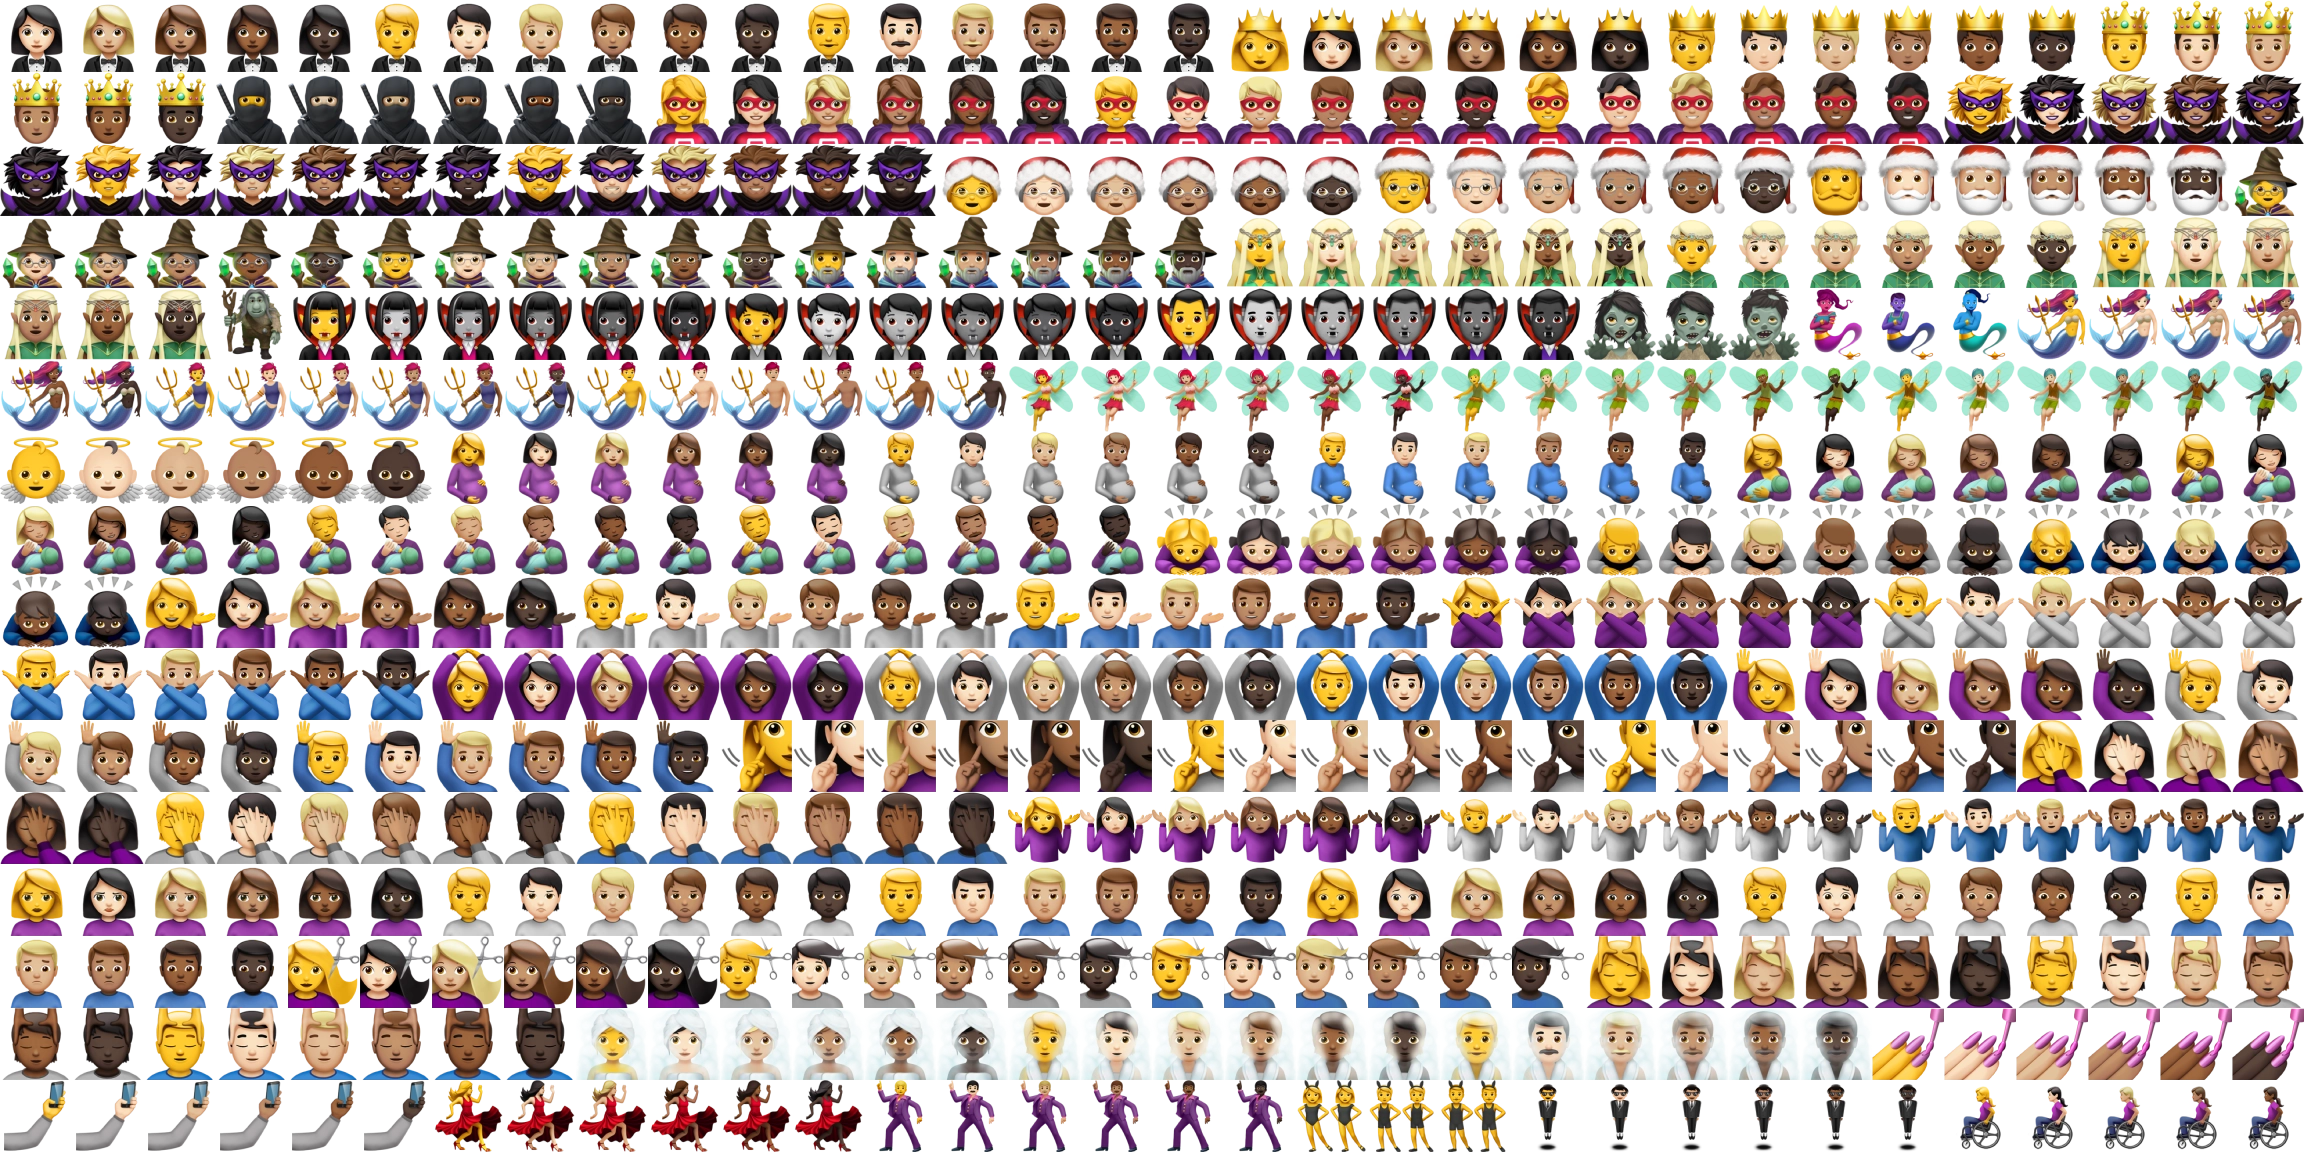
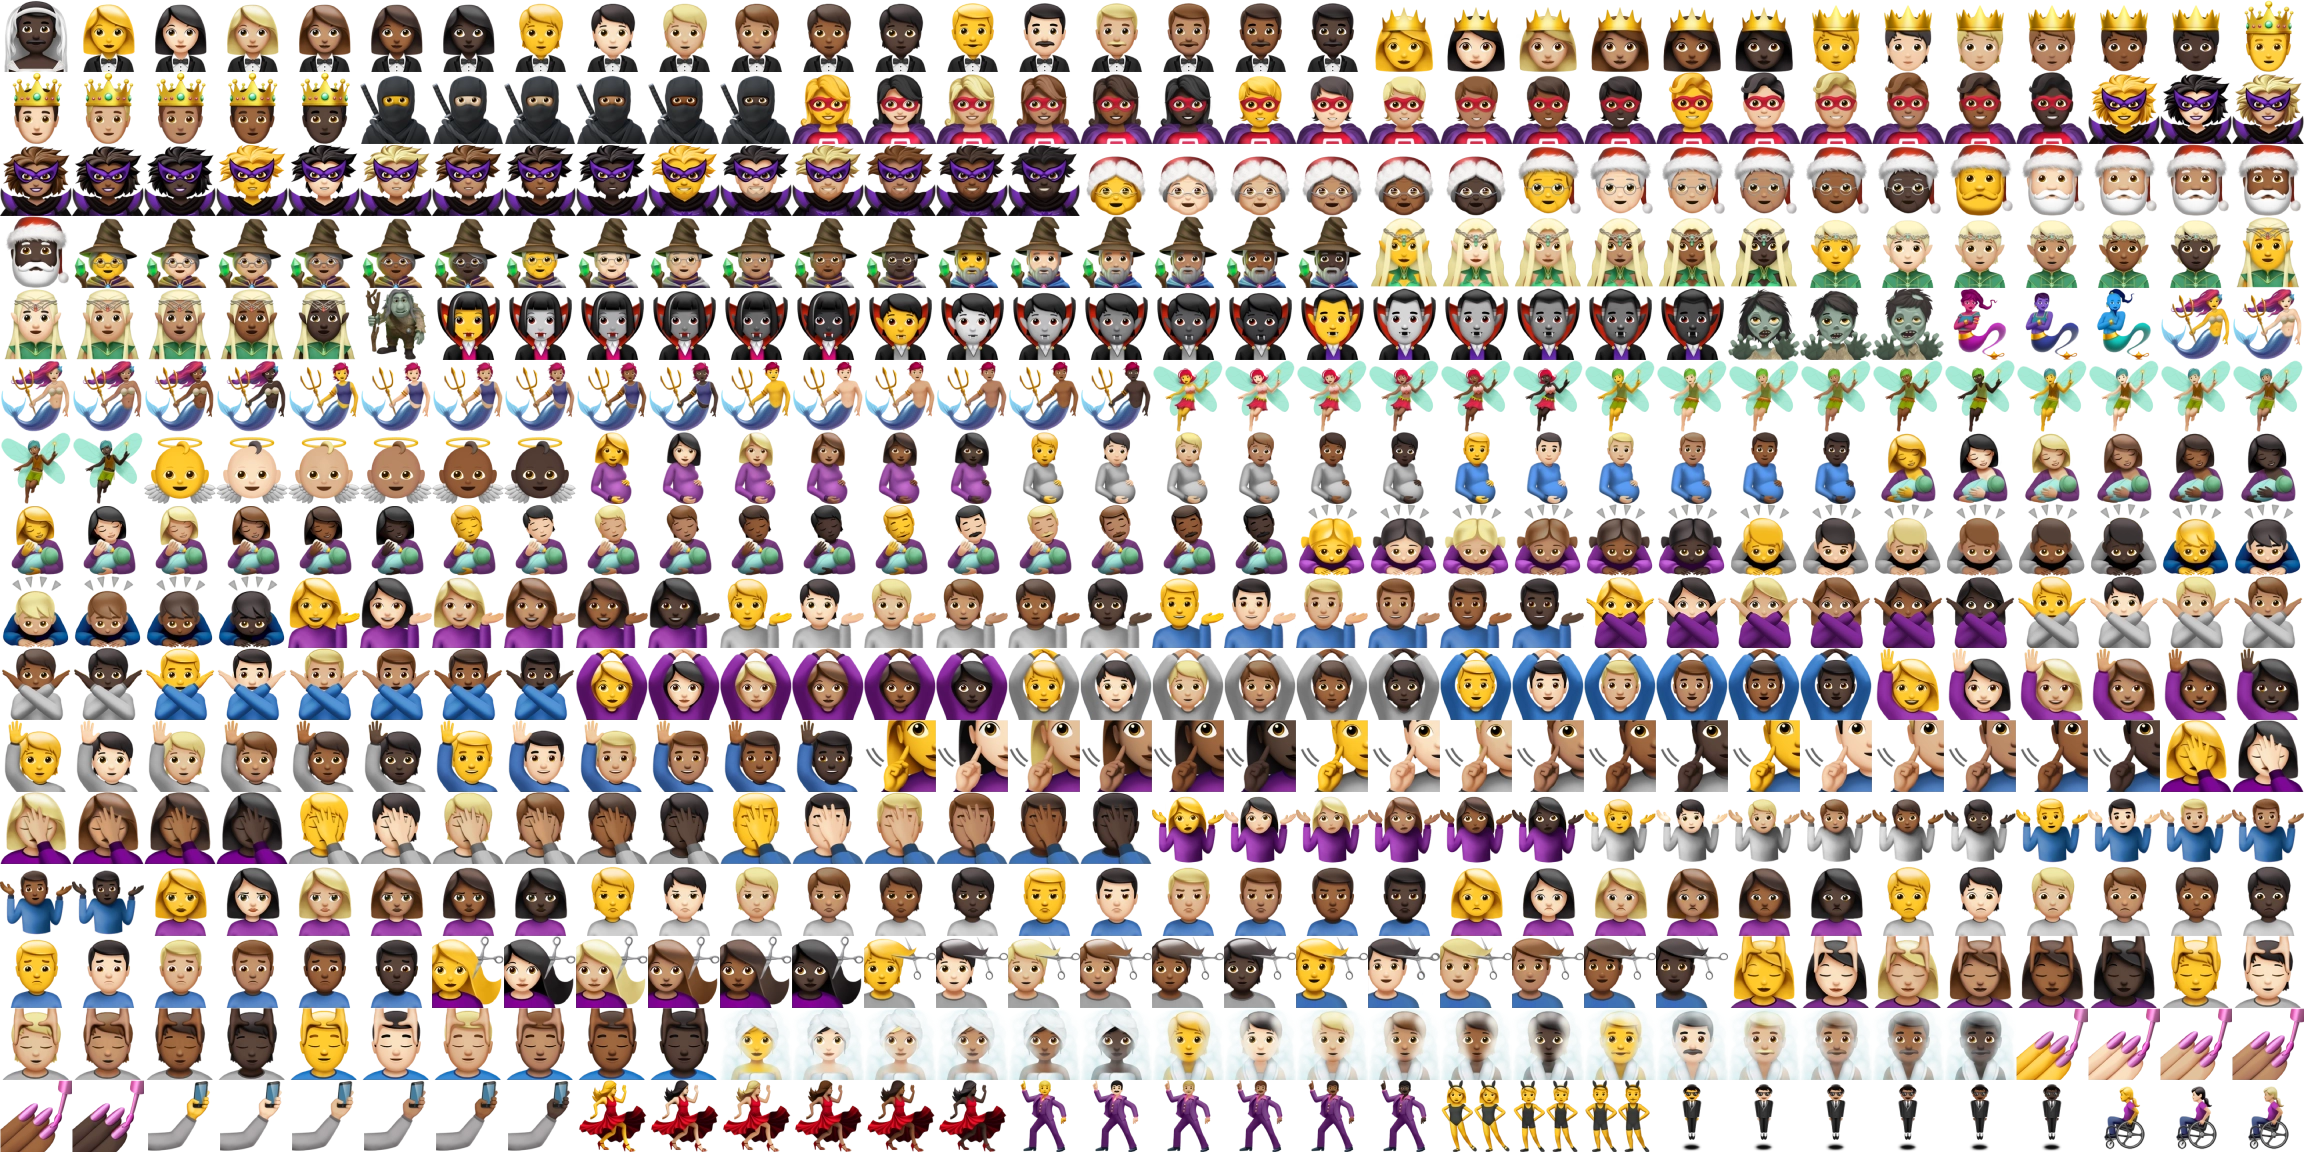
Update emoji to Unicode 16.

diff --git a/Telegram/SourceFiles/chat_helpers/emoji_sets_manager.cpp b/Telegram/SourceFiles/chat_helpers/emoji_sets_manager.cpp
@@ -41,9 +41,9 @@ inline auto PreviewPath(int i) {
 
 const auto kSets = {
 	Set{ { 0,    0,         0, "Mac" },       PreviewPath(0) },
-	Set{ { 1, 2290, 8'306'943, "Android" },   PreviewPath(1) },
-	Set{ { 2, 2291, 5'694'303, "Twemoji" },   PreviewPath(2) },
-	Set{ { 3, 2292, 7'261'223, "JoyPixels" }, PreviewPath(3) },
+	Set{ { 1, 2774, 8'455'034, "Android" },   PreviewPath(1) },
+	Set{ { 2, 2775, 5'713'503, "Twemoji" },   PreviewPath(2) },
+	Set{ { 3, 2776, 7'347'332, "JoyPixels" }, PreviewPath(3) },
 };
 
 using Loading = MTP::DedicatedLoader::Progress;
